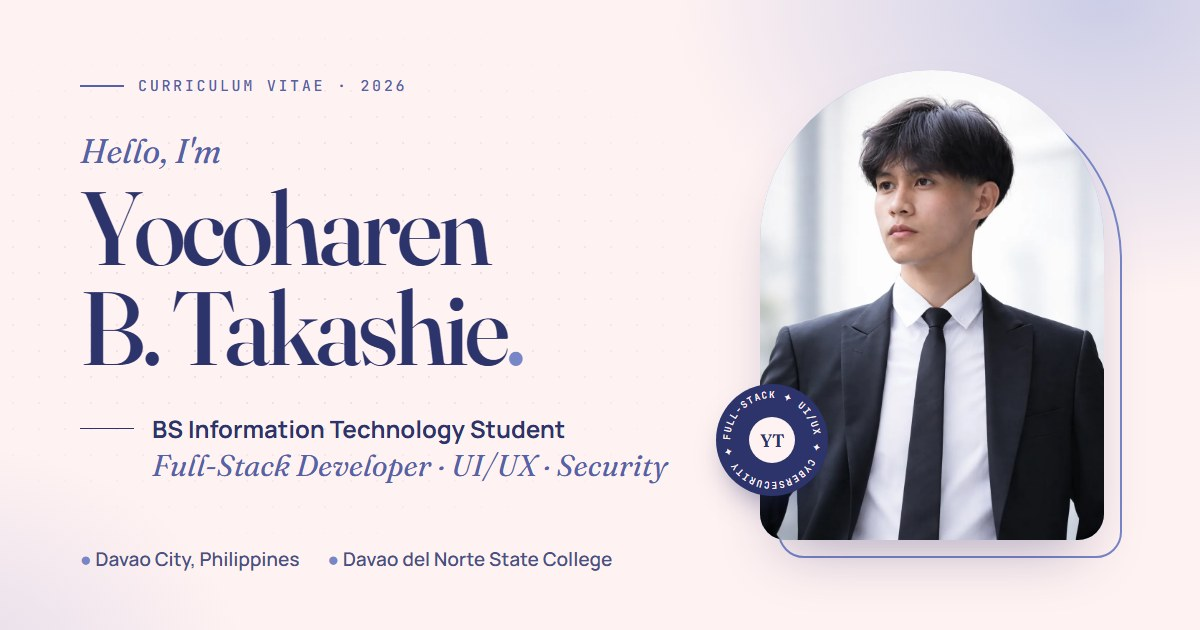
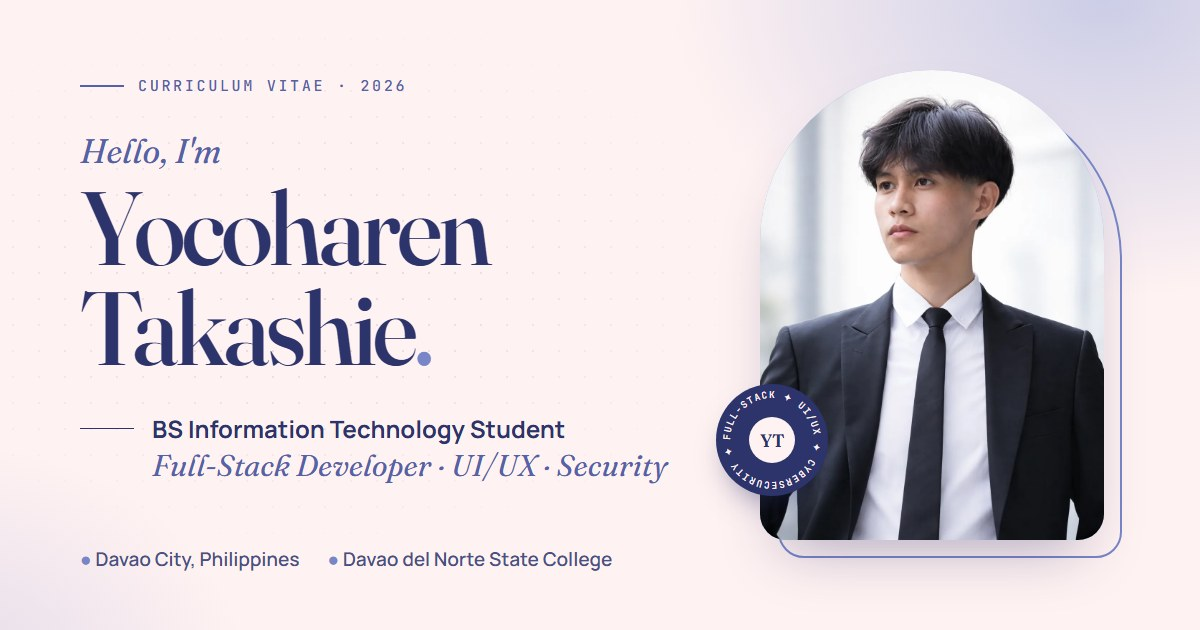
Use "Yocoharen Takashie" as the display name
Drop the middle initial everywhere to match LinkedIn: page title and
meta tags, hero heading, info card, footer, image alt text, 404 page,
README, and the regenerated link-preview and README images.

Changed region(s): [[0.0617, 0.4524, 0.4317, 0.6032]]

diff --git a/index.html b/index.html
@@ -3,9 +3,9 @@
 <head>
   <meta charset="UTF-8">
   <meta name="viewport" content="width=device-width, initial-scale=1">
-  <title>Yocoharen B. Takashie | IT Student &amp; Full-Stack Developer</title>
-  <meta name="description" content="Curriculum vitae of Yocoharen B. Takashie, a fourth-year BS Information Technology student at Davao del Norte State College and full-stack developer with a passion for UI/UX design and cybersecurity.">
-  <meta name="author" content="Yocoharen B. Takashie">
+  <title>Yocoharen Takashie | IT Student &amp; Full-Stack Developer</title>
+  <meta name="description" content="Curriculum vitae of Yocoharen Takashie, a fourth-year BS Information Technology student at Davao del Norte State College and full-stack developer with a passion for UI/UX design and cybersecurity.">
+  <meta name="author" content="Yocoharen Takashie">
   <meta name="theme-color" content="#FFF2F2">
 
   <!-- Link previews on Facebook, Messenger, LinkedIn and others -->
@@ -15,7 +15,7 @@
   <meta property="og:image" content="assets/img/og-image.jpg">
   <meta property="og:image:width" content="1200">
   <meta property="og:image:height" content="630">
-  <meta property="og:image:alt" content="Yocoharen B. Takashie, BS Information Technology Student and Full-Stack Developer">
+  <meta property="og:image:alt" content="Yocoharen Takashie, BS Information Technology Student and Full-Stack Developer">
   <meta property="profile:first_name" content="Yocoharen">
   <meta property="profile:last_name" content="Takashie">
   <meta name="twitter:card" content="summary_large_image">
@@ -101,7 +101,7 @@
 
   <header class="site-header" data-header>
     <div class="container nav">
-      <a class="nav__logo" href="#top" aria-label="Yocoharen B. Takashie, back to top">YT<span aria-hidden="true">.</span></a>
+      <a class="nav__logo" href="#top" aria-label="Yocoharen Takashie, back to top">YT<span aria-hidden="true">.</span></a>
 
       <nav class="nav__panel" id="nav-panel" aria-label="Main">
         <ul class="nav__list" role="list">
@@ -144,7 +144,7 @@
           <h1 class="hero__title" id="hero-title">
             <span class="hero__hello"><span>Hello, I'm</span></span>
             <span class="hero__line"><span>Yocoharen</span></span>
-            <span class="hero__line"><span>B. Takashie<span class="hero__dot">.</span></span></span>
+            <span class="hero__line"><span>Takashie<span class="hero__dot">.</span></span></span>
           </h1>
 
           <div class="hero__role">
@@ -179,7 +179,7 @@
                    srcset="assets/img/portrait/takashie-480.webp 480w, assets/img/portrait/takashie-720.webp 720w, assets/img/portrait/takashie-960.webp 960w"
                    sizes="(min-width: 60em) 440px, (min-width: 37.5em) 360px, 72vw"
                    width="960" height="1440" fetchpriority="high"
-                   alt="Yocoharen B. Takashie wearing a black suit, white shirt and black tie">
+                   alt="Yocoharen Takashie wearing a black suit, white shirt and black tie">
             </div>
 
             <div class="spin-badge" aria-hidden="true">
@@ -252,7 +252,7 @@
           <aside class="info-card" aria-labelledby="info-title" data-reveal>
             <h3 class="info-card__title" id="info-title">Basic information</h3>
             <dl class="info-list">
-              <div class="info-list__row"><dt>Full name</dt><dd>Yocoharen B. Takashie</dd></div>
+              <div class="info-list__row"><dt>Full name</dt><dd>Yocoharen Takashie</dd></div>
               <div class="info-list__row"><dt>Location</dt><dd>Davao City, Philippines</dd></div>
               <div class="info-list__row"><dt>Email</dt><dd><a href="mailto:yocoharen24@gmail.com">yocoharen24<wbr>@gmail.com</a></dd></div>
               <div class="info-list__row"><dt>Phone</dt><dd><a href="tel:+639922768218">+63 992 276 8218</a></dd></div>
@@ -795,7 +795,7 @@
       <div class="footer__top">
         <div class="footer__brand">
           <a class="footer__logo" href="#top" aria-label="Back to top">YT<span aria-hidden="true">.</span></a>
-          <p>Yocoharen B. Takashie<br>BS Information Technology Student<br>Davao City, Philippines</p>
+          <p>Yocoharen Takashie<br>BS Information Technology Student<br>Davao City, Philippines</p>
         </div>
 
         <nav class="footer__nav" aria-label="Footer">
@@ -820,7 +820,7 @@
       <p class="footer__wordmark" aria-hidden="true">Takashie</p>
 
       <div class="footer__bottom">
-        <p>© 2026 Yocoharen B. Takashie. Designed and built with HTML, CSS and JavaScript.</p>
+        <p>© 2026 Yocoharen Takashie. Designed and built with HTML, CSS and JavaScript.</p>
         <a class="footer__totop" href="#top">Back to top<svg class="icon" aria-hidden="true"><use href="#i-arrow-up"/></svg></a>
       </div>
     </div>

diff --git a/404.html b/404.html
@@ -3,7 +3,7 @@
 <head>
   <meta charset="UTF-8">
   <meta name="viewport" content="width=device-width, initial-scale=1">
-  <title>Page not found | Yocoharen B. Takashie</title>
+  <title>Page not found | Yocoharen Takashie</title>
   <meta name="robots" content="noindex">
   <meta name="theme-color" content="#FFF2F2">
 

diff --git a/README.md b/README.md
@@ -1,9 +1,9 @@
-# Yocoharen B. Takashie · Curriculum Vitae
+# Yocoharen Takashie · Curriculum Vitae
 
-A personal CV website for **Yocoharen B. Takashie**, a fourth-year BS Information Technology student at Davao del Norte State College. It presents my profile, education, skills, projects, experience and certificates in an editorial design, built with plain HTML, CSS and JavaScript and deployed on Vercel.
+A personal CV website for **Yocoharen Takashie**, a fourth-year BS Information Technology student at Davao del Norte State College. It presents my profile, education, skills, projects, experience and certificates in an editorial design, built with plain HTML, CSS and JavaScript and deployed on Vercel.
 
 - **Live site:** _link added after the first Vercel deployment_
-- **Student:** Yocoharen B. Takashie, BSIT 4th Year, Institute of Computing, Davao del Norte State College
+- **Student:** Yocoharen Takashie, BSIT 4th Year, Institute of Computing, Davao del Norte State College
 - **GitHub:** [@Yoko-Haren](https://github.com/Yoko-Haren) · **LinkedIn:** [Yocoharen Takashie](https://www.linkedin.com/in/yocoharen-takashie-14917a354)
 
 ![The CV on a desktop browser and a phone](docs/preview.jpg)
@@ -93,5 +93,5 @@ The site is a static site with no build step. Vercel deploys it straight from th
 
 ## Author
 
-**Yocoharen B. Takashie**, BS Information Technology, Davao del Norte State College
+**Yocoharen Takashie**, BS Information Technology, Davao del Norte State College
 [GitHub](https://github.com/Yoko-Haren) · [LinkedIn](https://www.linkedin.com/in/yocoharen-takashie-14917a354) · yocoharen24@gmail.com
